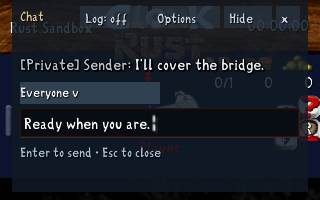
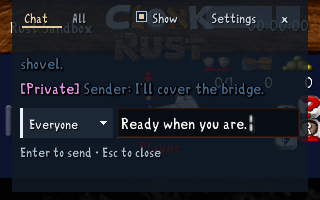
docs: describe the reworked chat header, recipient chip and colours

diff --git a/docs/enhanced-chat.md b/docs/enhanced-chat.md
@@ -16,25 +16,33 @@ messages show a two-line preview, with the full text available in history.
 Opening chat expands the transcript and composer. **Shift+Enter**
 opens allies chat and **Alt+Enter** opens speech above the selected crew.
 
-- Click the recipient label to choose **Everyone**, **Allies**, **Say above crew**,
-  or **Private → name**. **Ctrl+Tab** and **Ctrl+Shift+Tab** cycle recipients.
-  Explicit commands such as `/team` and `/private` also update the label.
+Each message reads timestamp, channel, sender, then text. Timestamps are grey,
+**[Allies]** is green and **[Private]** is pink for every sender, and the sender
+appears in their player colour. With **White chat in game** on, the message
+itself is white; otherwise it takes the sender's colour, as classic chat does.
+
+- The recipient sits at the start of the composer, in its channel's colour.
+  Click it to choose **Everyone**, **Allies**, **Say above crew**, or
+  **Private → name**; the list opens above it and marks the current choice.
+  **Ctrl+Tab** and **Ctrl+Shift+Tab** cycle recipients. Explicit commands such
+  as `/team` and `/private` also update it. An empty composer names who will
+  receive the message.
 - Press **Enter** to send. **Esc** or **×** closes chat and keeps the draft. Each recipient
   has a separate draft. Select and delete the text to discard it.
-- Click **Hide** to close chat and hide incoming message previews. **Enter** or
-  **F2** shows chat again, including messages received while hidden. Hiding chat
-  keeps the transcript and draft; it does not mute other players.
+- Untick **Show over game** to stop recent messages appearing over play while
+  chat is closed. The choice holds until it is ticked again; it keeps the
+  transcript and draft and does not mute other players.
 - **Up/Down** browse messages sent to the selected recipient and restore the
   unfinished draft when returning to the end. Private message bodies stay in
   that recipient's history. **Tab/Shift+Tab** cycle matching player names or commands.
 - Scroll over the transcript or press **Page Up/Page Down** to read history.
   Incoming messages preserve the reading position. Click **new messages ↓** or
   press **Ctrl+End** to return to the latest messages.
-- Click **Log** or press **Ctrl+L** to include game logs. Recipient
-  filtering happens before messages enter the panel.
-- **Options** contains **text size**, **history background opacity**, **message
-  duration**, and **timestamps**. Preferences are saved with the game's
-  configuration. **Esc** first closes Options or the recipient picker.
+- The **Chat** tab shows conversation; **All** adds game messages. **Ctrl+L**
+  switches between them. Recipient filtering happens before messages enter the
+  panel.
+- **Settings** opens Settings → General → Chat, which holds **text size**,
+  **chat opacity**, **message duration**, **white chat** and **timestamps**.
 
 Pasting never sends a message. Pasted line breaks become spaces for review in
 the single-line composer; an oversized paste leaves the current draft intact
